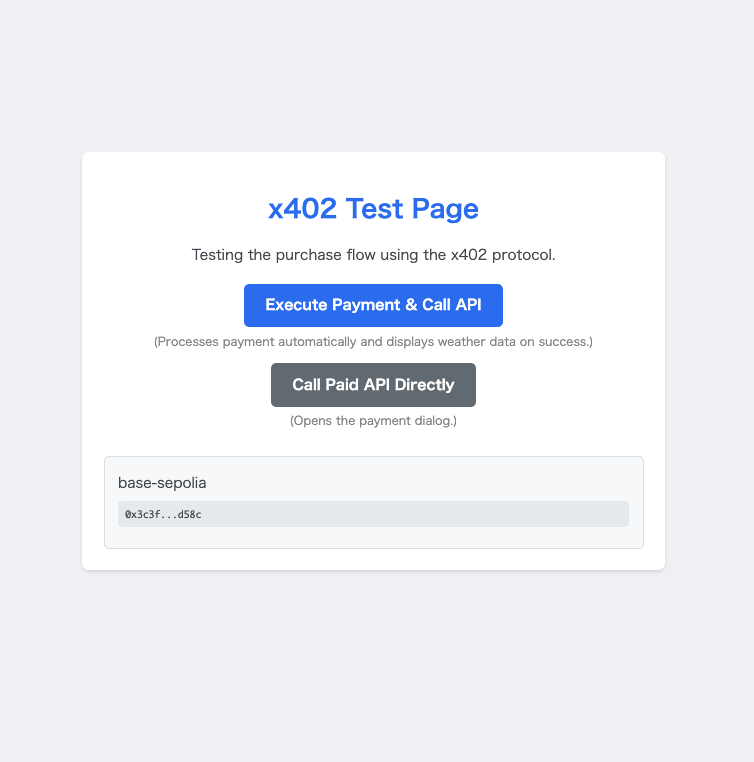
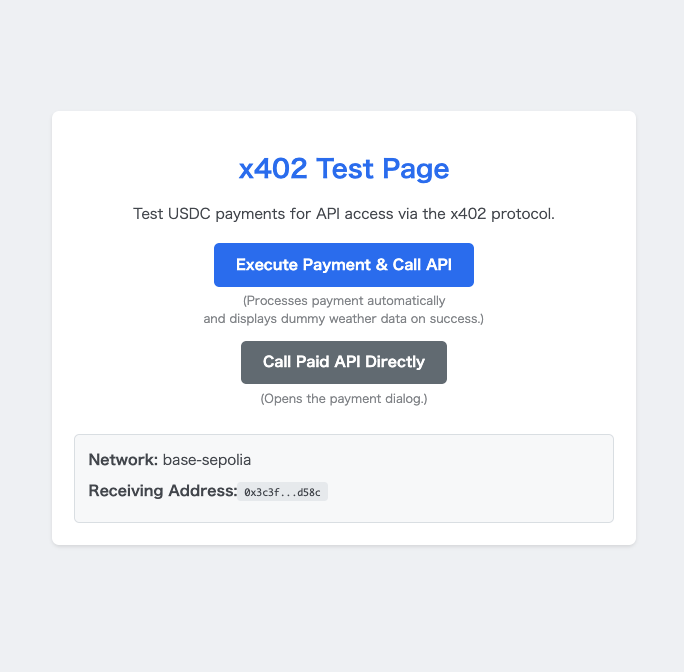
style: Update text on the main page

Changed region(s): [[0.1842, 0.2188, 0.7982, 0.625], [0.1228, 0.625, 0.4912, 0.75]]

diff --git a/src/components/TopPage.tsx b/src/components/TopPage.tsx
@@ -17,7 +17,6 @@ const TopPage = (props: { payToAddress: string; networkName: string }) => (
         .button.secondary { background-color: #6c757d; }
         .button.secondary:hover { background-color: #5a6268; }
         small { display: block; margin-top: 5px; color: #8a8d91; }
-        /* --- ▼▼▼ ここからが追加スタイル ▼▼▼ --- */
         .info-box {
           margin-top: 30px;
           padding: 15px;
@@ -36,21 +35,20 @@ const TopPage = (props: { payToAddress: string; networkName: string }) => (
         }
         .info-box a { color: #007bff; text-decoration: none; }
         .info-box a:hover { text-decoration: underline; }
-        /* --- ▲▲▲ ここまでが追加スタイル ▲▲▲ --- */
       `}</style>
     </head>
     <body>
       <div class="container">
         <h1>x402 Test Page</h1>
-        <p>Testing the purchase flow using the x402 protocol.</p>
+        <p>Test USDC payments for API access via the x402 protocol.</p>
         <div class="button-container">
           <div>
             <a href="/client/call-weather" target="_blank" class="button">
               Execute Payment & Call API
             </a>
             <small>
-              (Processes payment automatically and displays weather data on
-              success.)
+              (Processes payment automatically <br />
+              and displays dummy weather data on success.)
             </small>
           </div>
           <div>
@@ -60,10 +58,16 @@ const TopPage = (props: { payToAddress: string; networkName: string }) => (
             <small>(Opens the payment dialog.)</small>
           </div>
         </div>
+
         <div class="info-box">
-          <p>{props.networkName}</p>
-          <p class="address-text" title={props.payToAddress}>
-            {shortenAddress(props.payToAddress)}
+          <p>
+            <strong>Network:</strong> {props.networkName}
+          </p>
+          <p>
+            <strong>Receiving Address:</strong>
+            <span class="address-text" title={props.payToAddress}>
+              {shortenAddress(props.payToAddress)}
+            </span>
           </p>
         </div>
       </div>
